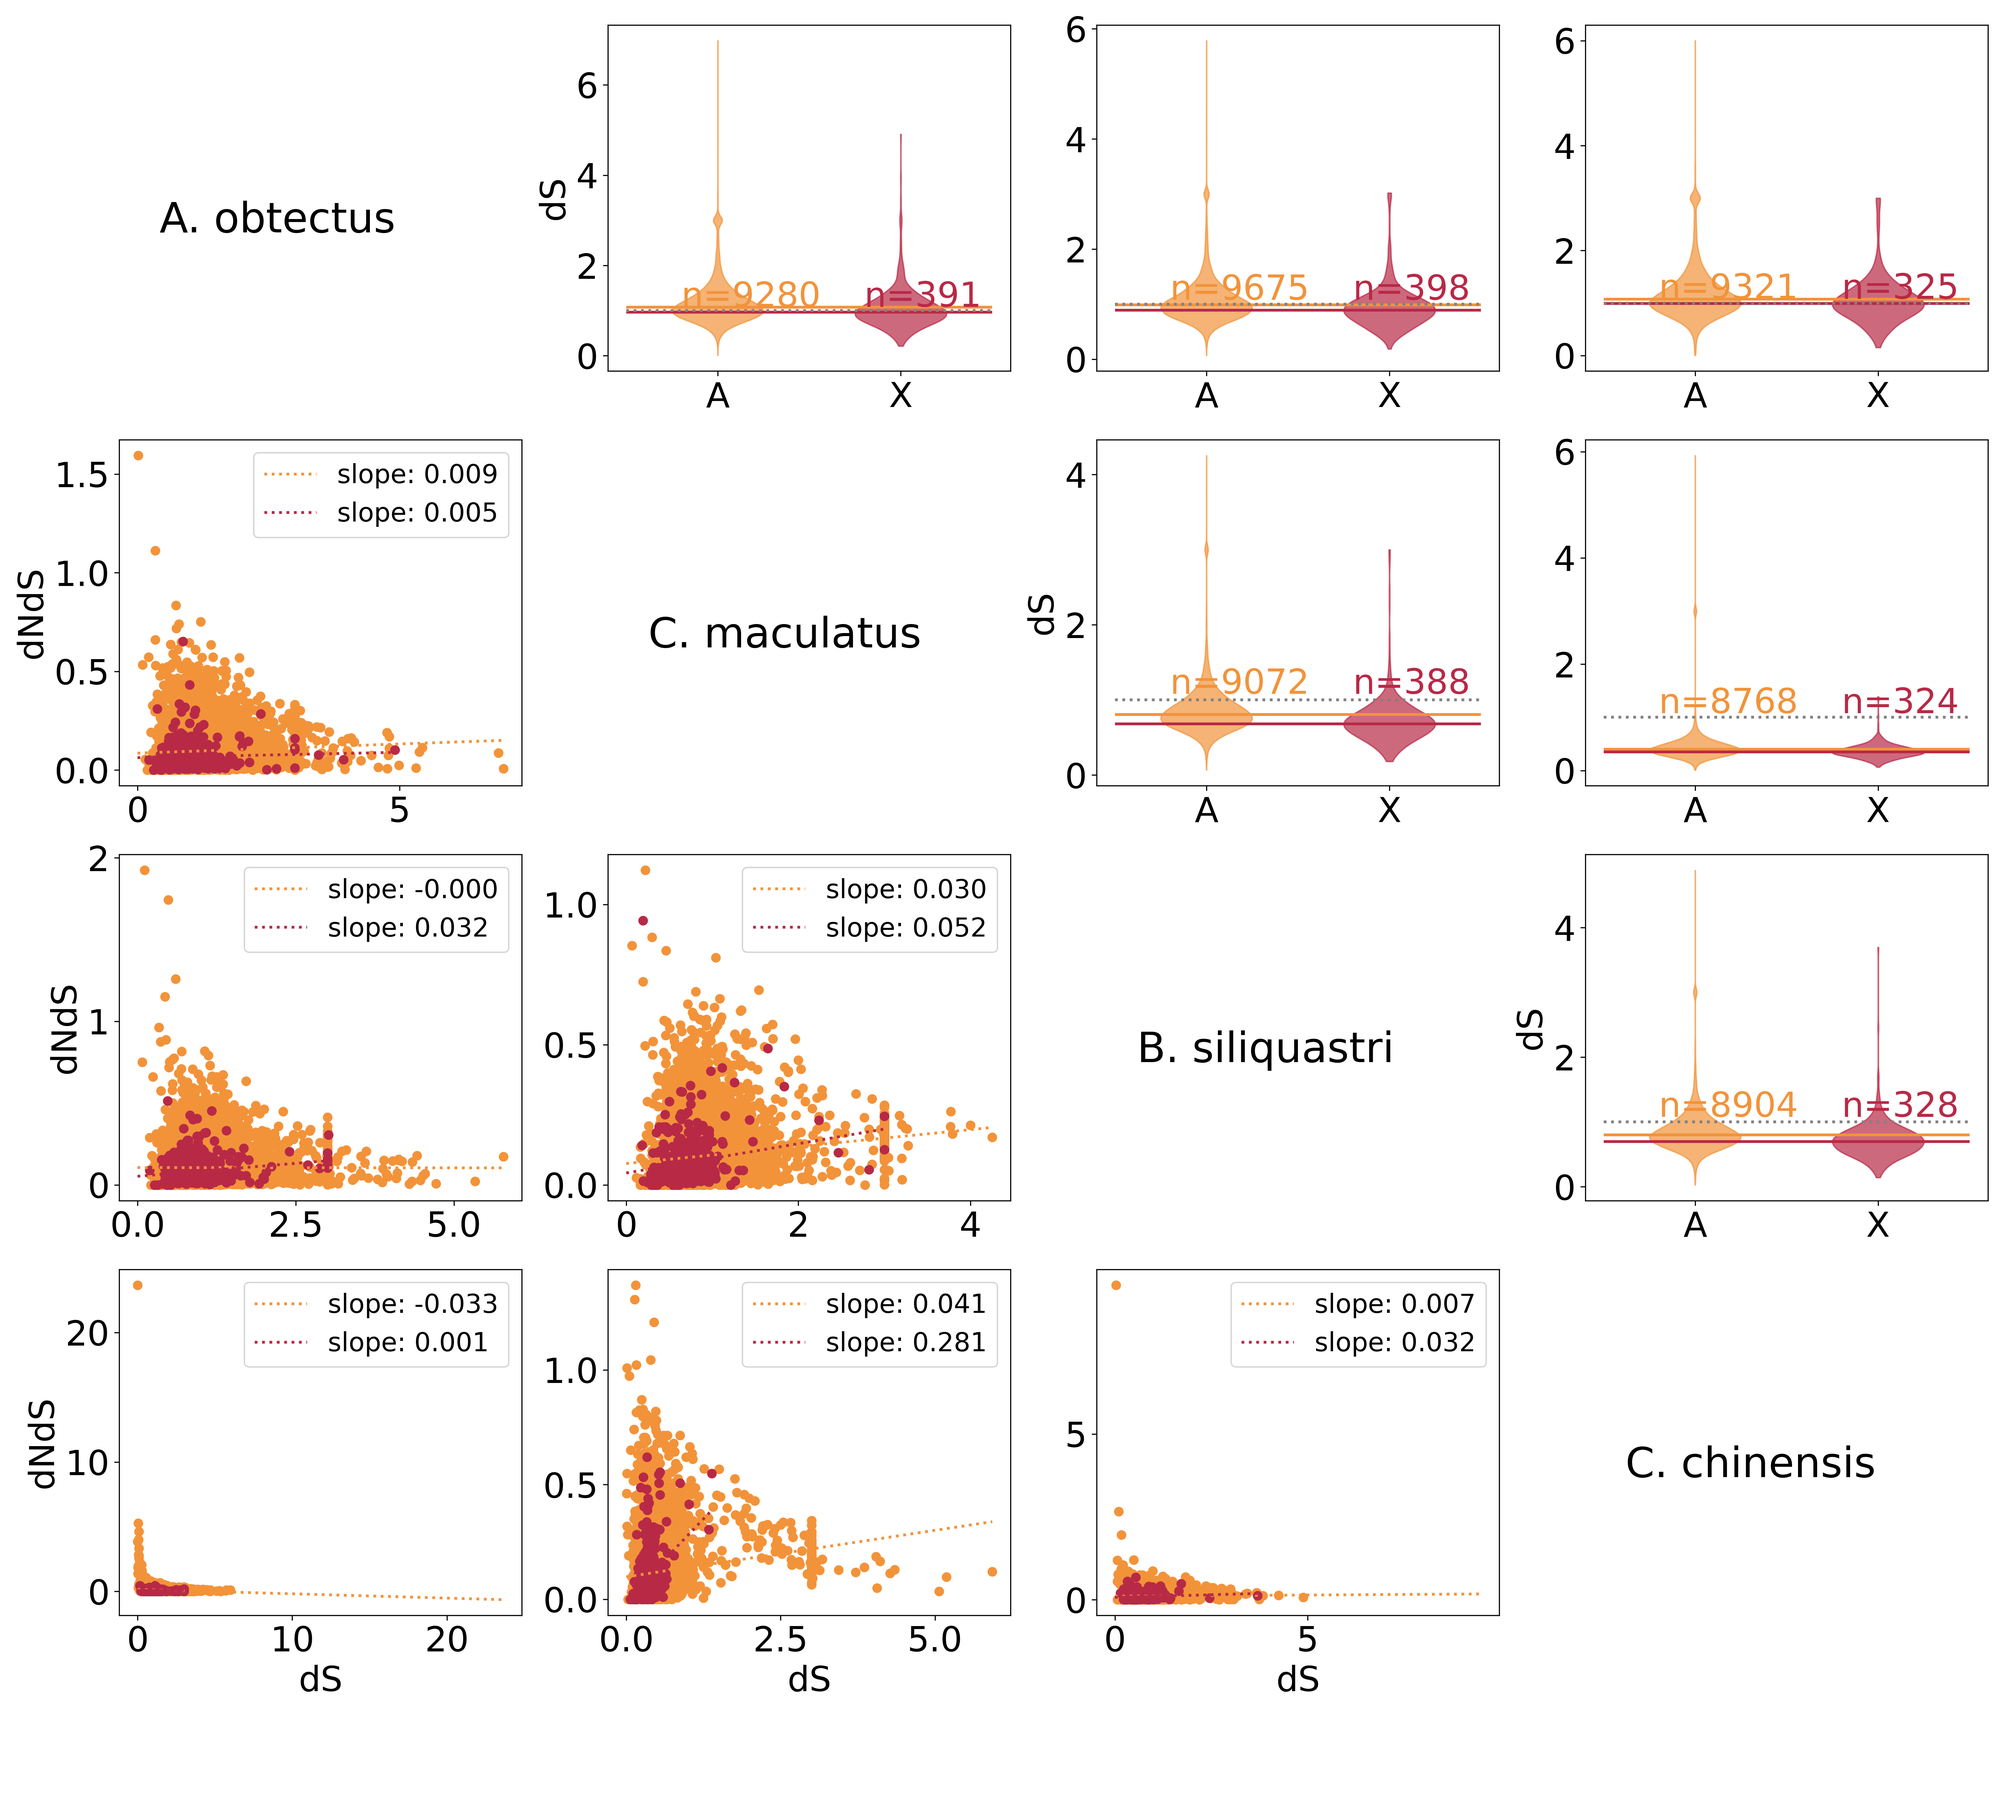
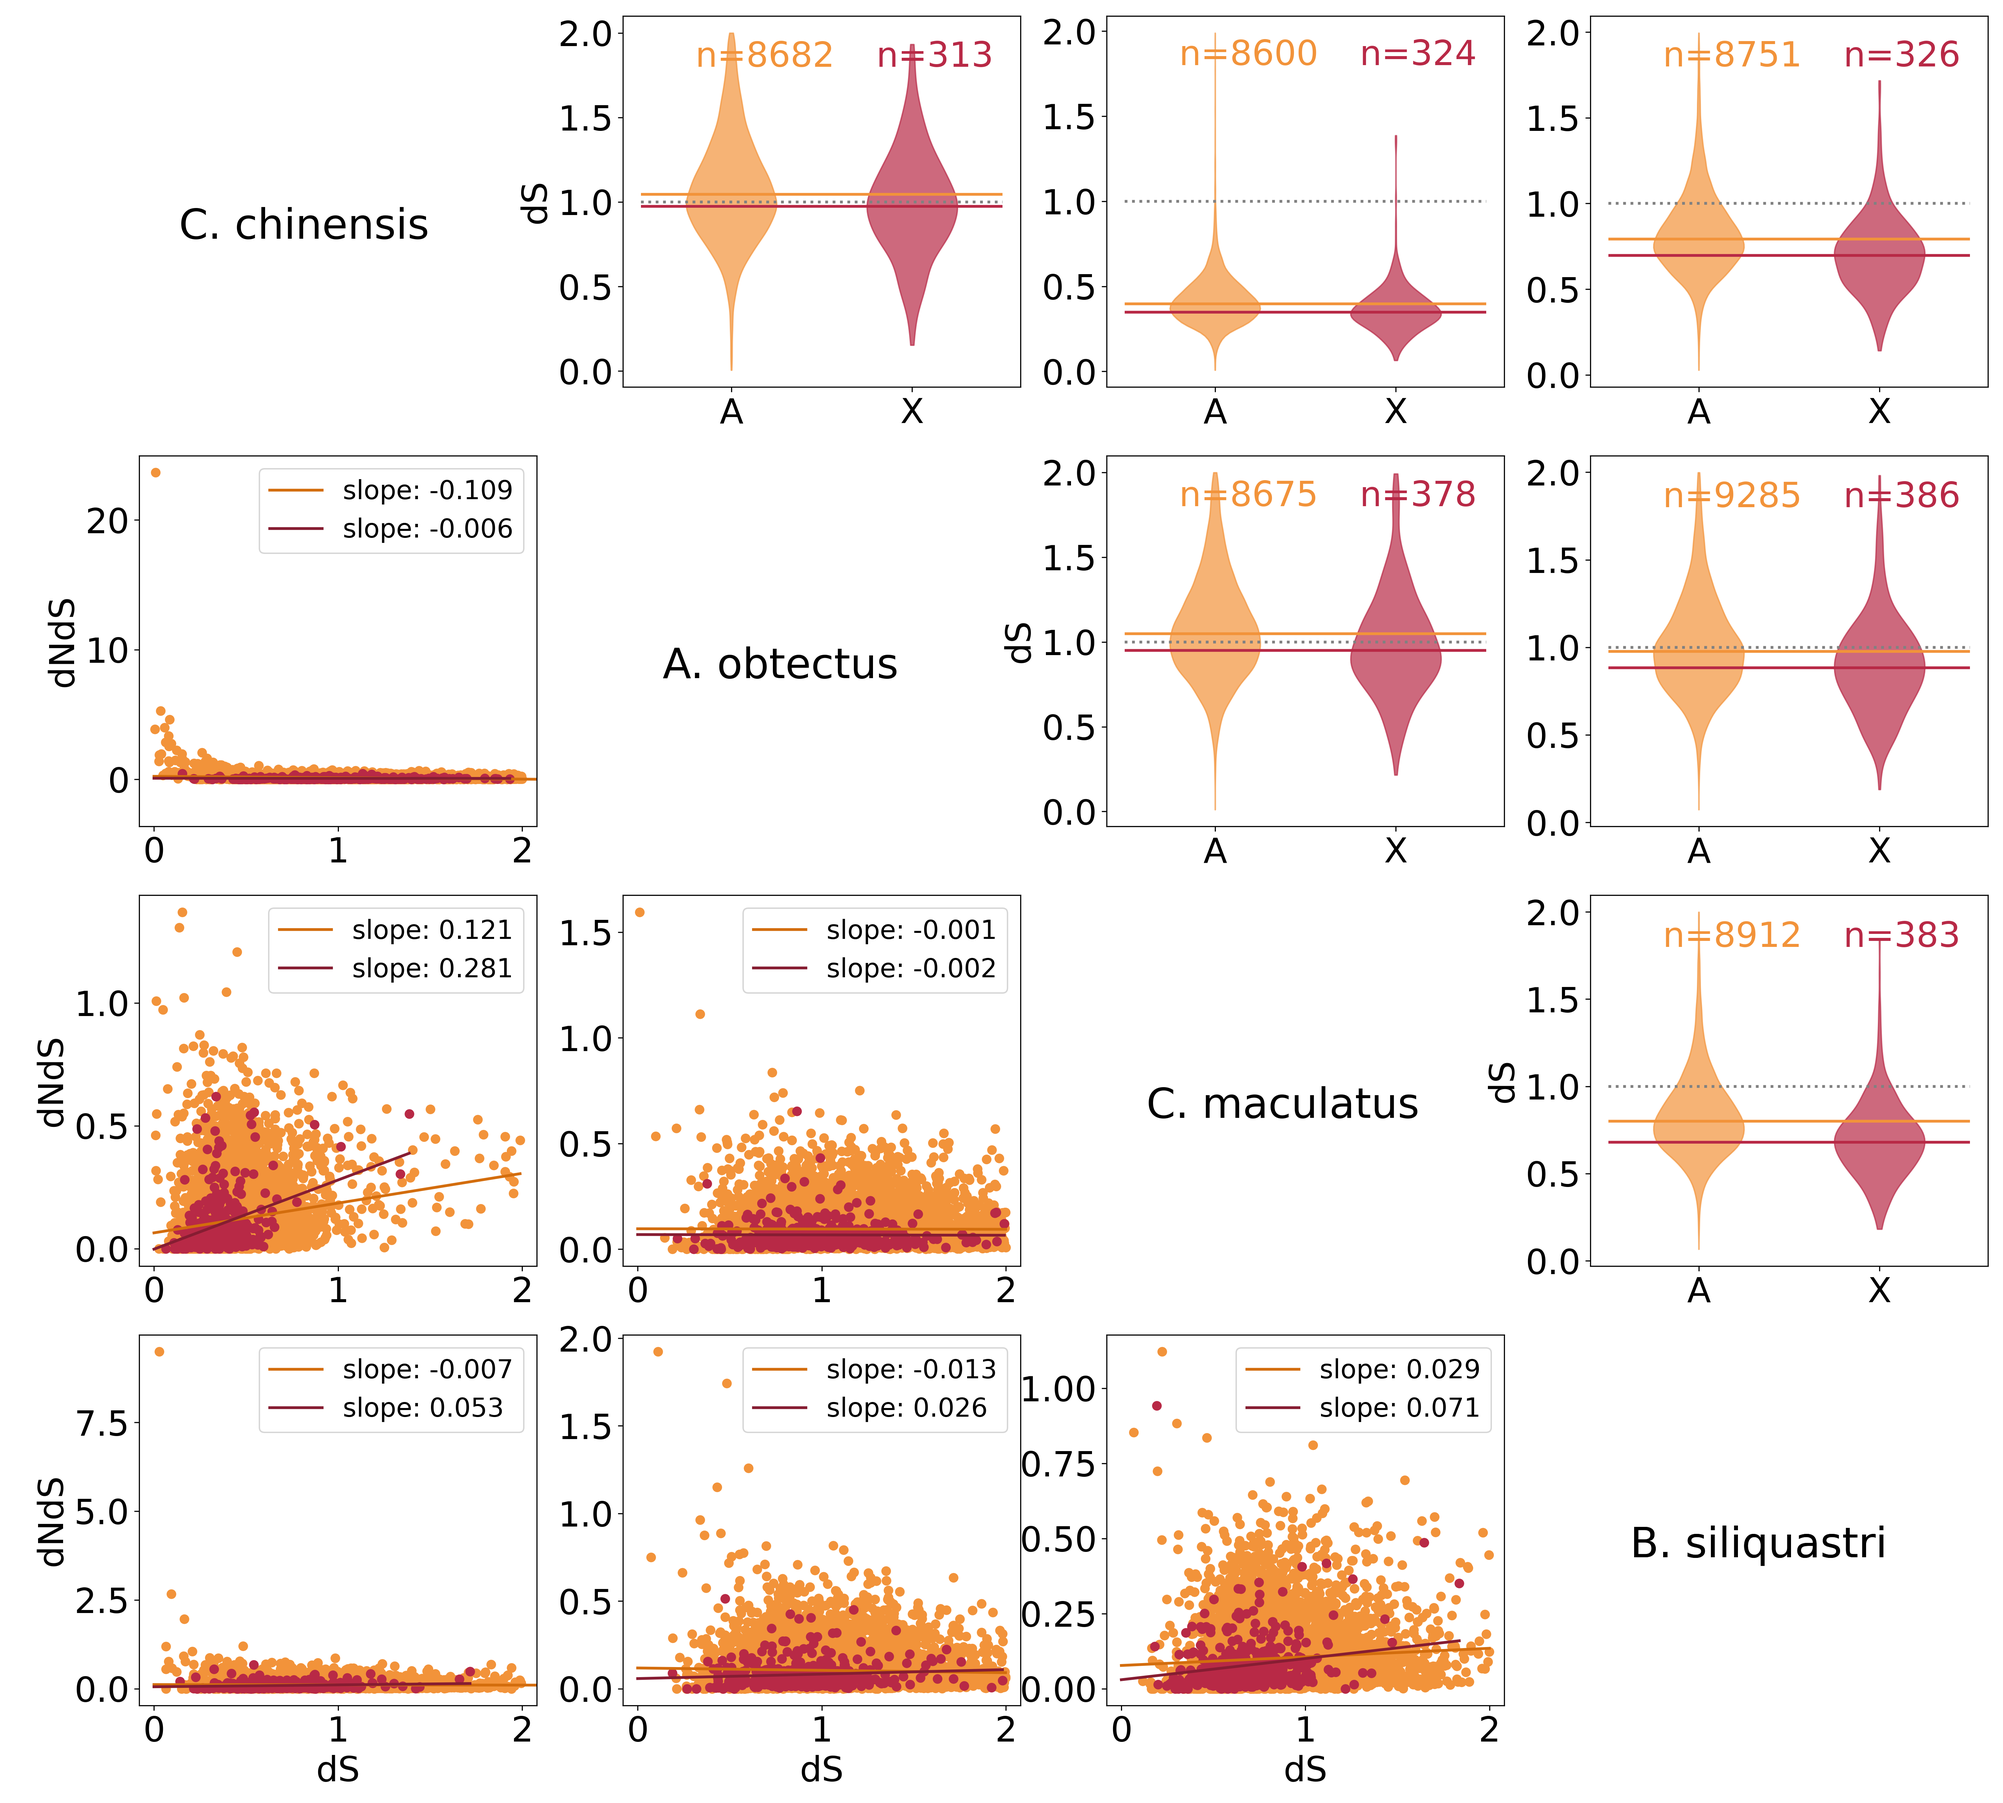
plot dS analysis

diff --git a/src/plotting/plot_dS.py b/src/plotting/plot_dS.py
@@ -7,17 +7,18 @@ import pandas as pd
 from math import sqrt, isnan
 import matplotlib.pyplot as plt
 import scipy.stats
+from plot_dNdS import get_summary_paths,violinplot_pair_single
 
 
-def get_summary_paths(username = "miltr339"):
-    summary_paths = {
-        "A" : f"/Users/{username}/work/pairwise_blast_chapter_2_3/brh_tables/brh_results_A/dNdS_dS_summary_A-linked.txt",
-        "X" : f"/Users/{username}/work/pairwise_blast_chapter_2_3/brh_tables/brh_results_X/dNdS_dS_summary_X-linked.txt",
-    }
-    return summary_paths
-
-
-def read_dNdS_summary_file(summary_path, only_dS, exclude_list = []):
+def read_dNdS_dS_summary_file(summary_path, only_dS, exclude_list = []):
+    """
+    read dNdS and dS summary outfiles into a dict by species pair
+    out_dict = { pair : {
+                    "dS" : [],
+                    "dNdS" : []
+                    }
+                }
+    """
     out_dict = {}
     pairs_done = []
     with open(summary_path, "r") as summary:
@@ -58,6 +59,23 @@ def read_dNdS_summary_file(summary_path, only_dS, exclude_list = []):
                 out_dict[pair]["dNdS"] = values_list
 
     return out_dict
+
+def read_filtered_dNdS_summary(summary_path, excl_list=[], max_dS=2):
+    """
+    read the dNdS and dS values, filter for min_dS, and return only dNdS values that meet the criteria
+    """
+    summary_dict = read_dNdS_dS_summary_file(summary_path=summary_path, exclude_list=excl_list, only_dS=False)
+    dNdS_dict = {pair : [] for pair in summary_dict.keys()}
+    for pair, lists_dict in summary_dict.items():
+        dNdS_unfiltered = lists_dict["dNdS"]
+        dS_list = lists_dict["dS"]
+        assert len(dNdS_unfiltered) == len(dS_list)
+
+        dNdS_filtered = [dNdS for i, dNdS in enumerate(dNdS_unfiltered) if dS_list[i]<max_dS]
+        print(f"{pair} : {len(dNdS_unfiltered)} dNdS values, {len(dS_list)} dS values; \t {len(dNdS_filtered)} have dS < {max_dS}")
+        dNdS_dict[pair] = dNdS_filtered
+
+    return dNdS_dict
 
 
 def calculate_num_species(dNdS_dict):
@@ -111,8 +129,8 @@ def violinplot_pair(data_A_X, row, col, n_A, n_X, mean_A, mean_X, axes, colors_d
     axes[row, col].set_xticks([1,2])
     axes[row, col].set_xticklabels(xticks)
     
-    axes[row, col].text(1-0.2, 0.78+max_dNdS_add, f"n={n_A}", fontsize = fs, color = colors_dict["A"])
-    axes[row, col].text(2-0.2, 0.78+max_dNdS_add, f"n={n_X}", fontsize = fs, color = colors_dict["X"])
+    axes[row, col].text(1-0.2, 1.5+max_dNdS_add, f"n={n_A}", fontsize = fs, color = colors_dict["A"])
+    axes[row, col].text(2-0.2, 1.5+max_dNdS_add, f"n={n_X}", fontsize = fs, color = colors_dict["X"])
     axes[row, col].hlines(y=mean_A, xmin=0.5, xmax=2.5, linewidth=2, color=colors_dict["A"])
     axes[row, col].hlines(y=mean_X, xmin=0.5, xmax=2.5, linewidth=2, color=colors_dict["X"])
     axes[row, col].hlines(y=1, xmin=0.5, xmax=2.5, linewidth=2, linestyle = ":", color="#818181")
@@ -220,8 +238,9 @@ def plot_dS_violins(A_dict:dict, X_dict:dict, filename = "dNdS_ratios_A_X.png", 
         #     print(f"sample sizes, n_A = {n_A}, n_X = {n_X}, data X  = {data_X}")
     
     # fig.text(0.5, 0.04, x_label, ha='center', va='center', fontsize=fs)
-    # Adjust layout to prevent overlap
-    plt.tight_layout(rect=[0, 0.05, 1, 1])
+    
+    # Adjust layout to prevent overlap  (left, bottom, right, top)
+    plt.tight_layout(rect=[0.01, 0, 1, 1])
 
     if dark_mode:
         filename = filename.replace(".png", "_darkmode.png")
@@ -266,7 +285,7 @@ def make_line_vectors(slope, intercept, x_data, y_data):
     return x,y
 
 
-def plot_dS_vs_dNdS(A_dict:dict, X_dict:dict, filename = "dS_vs_dNdS.png", dark_mode=False):
+def plot_dS_vs_dNdS(A_dict:dict, X_dict:dict, filename = "dS_vs_dNdS.png", dark_mode=False, max_dS=2):
     """
     plot a grid of scatterplots of dS vs. dNdS in X and autosomes for each pair
     """
@@ -296,7 +315,9 @@ def plot_dS_vs_dNdS(A_dict:dict, X_dict:dict, filename = "dS_vs_dNdS.png", dark_
     colors_dict = {
         # "A" : "#4d7298", # uniform_unfiltered blue
         "A" : "#F2933A", # uniform_filtered orange
+        "A_line" : "#D36D0D", # darker orange
         "X" : "#b82946", # native red
+        "X_line" : "#861D32" #dark red
     }
 
     diagonals_done = []
@@ -336,14 +357,26 @@ def plot_dS_vs_dNdS(A_dict:dict, X_dict:dict, filename = "dS_vs_dNdS.png", dark_
         ## exclude all the NaNs because violinplot can't handle them
         dS_A_nan = np.array(A_dict[pair]["dS"], dtype=float)
         dS_X_nan = np.array(X_dict[pair]["dS"], dtype=float)
-        dS_A = [dS_A for dS_A in dS_A_nan if not np.isnan(dS_A) ]
-        dS_X = [dS_X for dS_X in dS_X_nan if not np.isnan(dS_X) ]
-
         dNdS_A_nan = np.array(A_dict[pair]["dNdS"], dtype=float)
         dNdS_X_nan = np.array(X_dict[pair]["dNdS"], dtype=float)
-        dNdS_A = [dNdS_A for dNdS_A in dNdS_A_nan if not np.isnan(dNdS_A) ]
-        dNdS_X = [dNdS_X for dNdS_X in dNdS_X_nan if not np.isnan(dNdS_X) ]
-    
+
+        # remove nan's from both (remove both elements if one of them is nan)
+        dS_A_all = [dS_A for i, dS_A in enumerate(dS_A_nan) if not np.isnan(dS_A_nan[i]) and not np.isnan(dNdS_A_nan[i]) ]
+        dS_X_all = [dS_X for i, dS_X in enumerate(dS_X_nan) if not np.isnan(dS_X_nan[i]) and not np.isnan(dNdS_X_nan[i]) ]
+        dNdS_A_all = [dNdS_A for i, dNdS_A in enumerate(dNdS_A_nan) if not np.isnan(dS_A_nan[i]) and not np.isnan(dNdS_A_nan[i]) ]
+        dNdS_X_all = [dNdS_X for i, dNdS_X in enumerate(dNdS_X_nan) if not np.isnan(dS_X_nan[i]) and not np.isnan(dNdS_X_nan[i]) ]
+        assert len(dS_A_all) == len(dNdS_A_all)
+        assert len(dS_X_all) == len(dNdS_X_all)
+        # remove dS>mad_dS from both (remove dNdS also if dS is removed)
+        dS_A = [dS for dS in dS_A_all if dS < max_dS]
+        dS_X = [dS for dS in dS_X_all if dS < max_dS]
+        dNdS_A = [dNdS for i, dNdS in enumerate(dNdS_A_all) if dS_A_all[i] < max_dS]
+        dNdS_X = [dNdS for i, dNdS in enumerate(dNdS_X_all) if dS_X_all[i] < max_dS]
+        assert len(dS_A) == len(dNdS_A)
+        assert len(dS_X) == len(dNdS_X)
+
+        print(f"\tremoved dS>{max_dS}:\n\t{len(dNdS_A_all)} A dNdS values (no np.nan) before filtering, {len(dNdS_A)} after filtering, \n\t{len(dNdS_X_all)} X dNdS values (no np.nan) before filtering , {len(dNdS_X)} after filtering")
+
         if len(dS_A)==0 or len(dS_X)==0 or len(dNdS_A)==0 or len(dNdS_X)==0:
             axes[row,col].axis('off')
             axes[row,col].text(0.1,0.4,f"{species1}\n{species2}:\nmissing data", fontsize = fs*0.75)
@@ -368,22 +401,24 @@ def plot_dS_vs_dNdS(A_dict:dict, X_dict:dict, filename = "dS_vs_dNdS.png", dark_
         axes[col,row].tick_params(axis='y', labelsize=fs)
         axes[species_count-1,row].set_xlabel("dS", fontsize = fs)
         axes[col,0].set_ylabel("dNdS", fontsize = fs)
+        axes[col,row].set_xlim(-0.08,2.08)
         ## linear regression
         slope_A, intercept_A, normal_residuals_A = calculate_dS_dNdS_lin_reg(dS_list = dS_A, dNdS_list = dNdS_A, species_pair= pair)
         slope_X, intercept_X, normal_residuals_X = calculate_dS_dNdS_lin_reg(dS_list = dS_X, dNdS_list = dNdS_X, species_pair= pair)
         linreg_x_A, linreg_y_A = make_line_vectors(slope=slope_A, intercept=intercept_A, x_data=dS_A, y_data=dNdS_A)
         linreg_x_X, linreg_y_X = make_line_vectors(slope=slope_X, intercept=intercept_X, x_data=dS_X, y_data=dNdS_X)
-        if normal_residuals_A:
-            linestyle_A = "-"
-        else:
-            linestyle_A = ":"
-        if normal_residuals_X:
-            linestyle_X = "-"
-        else:
-            linestyle_X = ":"
 
-        axes[col,row].plot(linreg_x_A, linreg_y_A, color = colors_dict["A"], linewidth=2, label=f"slope: {slope_A:.3f}", linestyle=linestyle_A)    
-        axes[col,row].plot(linreg_x_X, linreg_y_X, color = colors_dict["X"], linewidth=2, label=f"slope: {slope_X:.3f}", linestyle=linestyle_X)
+        if normal_residuals_A:
+            linestyle_A = ":"
+        else:
+            linestyle_A = "-"
+        if normal_residuals_X:
+            linestyle_X = ":"
+        else:
+            linestyle_X = "-"
+
+        axes[col,row].plot(linreg_x_A, linreg_y_A, color = colors_dict["A_line"], linewidth=2, label=f"slope: {slope_A:.3f}", linestyle=linestyle_A)    
+        axes[col,row].plot(linreg_x_X, linreg_y_X, color = colors_dict["X_line"], linewidth=2, label=f"slope: {slope_X:.3f}", linestyle=linestyle_X)
         axes[col,row].legend(fontsize=fs*0.75)
 
         axes[row,row].axis('off')
@@ -394,20 +429,40 @@ def plot_dS_vs_dNdS(A_dict:dict, X_dict:dict, filename = "dS_vs_dNdS.png", dark_
         #     print(f"sample sizes, n_A = {n_A}, n_X = {n_X}, data X  = {data_X}")
     
     # fig.text(0.5, 0.04, x_label, ha='center', va='center', fontsize=fs)
-    # Adjust layout to prevent overlap
-    plt.tight_layout(rect=[0, 0.05, 1, 1])
+    # Adjust layout to prevent overlap  (left, bottom, right, top)
+    plt.tight_layout(rect=[0.01, 0, 1, 1])
 
     if dark_mode:
         filename = filename.replace(".png", "_darkmode.png")
-    plt.savefig(filename, dpi = 300, transparent = False)
-    print(f"plot saved in current working directory as: {filename}")
+    # transparent background
+    plt.savefig(filename, dpi = 300, transparent = True)
+    # non-transparent background
+    filename_tr = filename.replace(".png", "_white_bg.png")
+    plt.savefig(filename_tr, dpi = 300, transparent = False)
+    print(f"plot saved in current working directory as: {filename} and {filename_tr}")
 
 
 
 if __name__ == "__main__":
     username = "miltr339"
     chromosome = "A"
-    summary_paths = get_summary_paths()
+    data_files = {"A" : ["A_dNdS", "A_LRT"],
+                  "X" : ["X_dNdS", "X_LRT"]}
+    summary_paths = get_summary_paths(username=username)
+
+    # bruchini
+    if False:
+        species_excl = ["D_carinulata", "D_sublineata", "T_castaneum", "T_freemani", "C_septempunctata", "C_magnifica"]
+        filename =f"/Users/{username}/work/PhD_code/PhD_chapter3/data/fastX_ortholog_ident/dS_vs_dNdS_scatterplot_bruchini.png"
+    # coccinella
+    elif False:
+        species_excl = ["D_carinulata", "D_sublineata", "T_castaneum", "T_freemani", "B_siliquastri", "A_obtectus", "C_maculatus", "C_chinensis"]
+        filename =f"/Users/{username}/work/PhD_code/PhD_chapter3/data/fastX_ortholog_ident/dS_vs_dNdS_scatterplot_coccinella.png"
+    # tribolium
+    elif True:
+        species_excl = ["D_carinulata", "D_sublineata", "C_septempunctata", "C_magnifica", "B_siliquastri", "A_obtectus", "C_maculatus", "C_chinensis"]
+        filename =f"/Users/{username}/work/PhD_code/PhD_chapter3/data/fastX_ortholog_ident/dS_vs_dNdS_scatterplot_tribolium.png"
+    
     
     ## make the violinplots of only dS for each pair
     if False:
@@ -424,14 +479,14 @@ if __name__ == "__main__":
     
     ## make the scatterplots
     if True:
-        print(f"/////////////// A ///////////////")
-        dS_dict_A = read_dNdS_summary_file(summary_paths["A"], only_dS = False, exclude_list=["D_carinulata", "D_sublineata"])
+        print(f"reading A ...")
+        dS_dict_A = read_dNdS_dS_summary_file(summary_paths[data_files["A"][0]], only_dS = False, exclude_list=species_excl)
         # print(dS_dict_A)
 
-        print(f"/////////////// X ///////////////")
-        dS_dict_X = read_dNdS_summary_file(summary_paths["X"], only_dS = False, exclude_list=["D_carinulata", "D_sublineata"])
+        print(f"reading X ...")
+        dS_dict_X = read_dNdS_dS_summary_file(summary_paths[data_files["X"][0]], only_dS = False, exclude_list=species_excl)
         # print(dS_dict_X)
         
         species = get_species_list(dS_dict_A)
-        plot_dS_vs_dNdS(A_dict=dS_dict_A, X_dict=dS_dict_X,filename=f"/Users/{username}/work/PhD_code/PhD_chapter3/data/fastX_ortholog_ident/dS_vs_dNdS_scatterplot.png")
+        plot_dS_vs_dNdS(A_dict=dS_dict_A, X_dict=dS_dict_X,filename=filename, max_dS=2)
     
